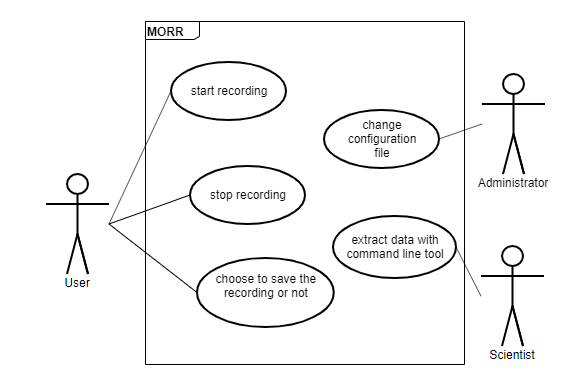
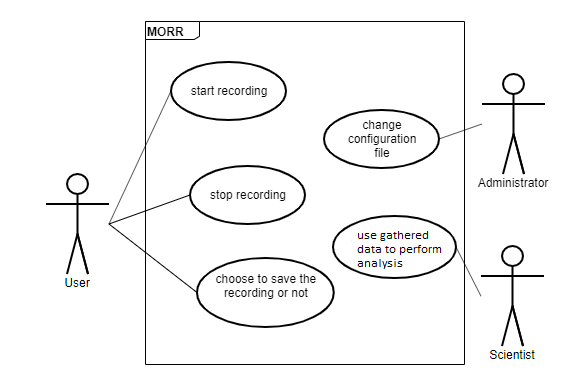
Remove data-extraction (CLI) and scenarios covering optional features from FSD

Changed region(s): [[0.5866, 0.5846, 0.7719, 0.7077]]

diff --git a/documents/fsd/chapter/scenarios.tex b/documents/fsd/chapter/scenarios.tex
@@ -29,49 +29,19 @@ The buttons and the yellow border in scenario 1 to 4 are specified in \ref{sec:s
     \item The application discards the recorded data and the yellow border disappears at the same time.
 \end{enumerate}
 
-\subsection{Scenario 3: The minimal recording duration is not reached}
-Notice: This scenario covers features declared optional.
-\begin{enumerate}
-    \item The application displays a button  at the bottom right corner of the screen.
-    \item \Gls{user} clicks the button to start recording.
-    \item The application starts to record and displays a yellow border on screen during the whole recording time to indicate that the \gls{session} is being recorded.
-    \item \Gls{user} is immediately interrupted by an Email after the start of recording and decides to stop recording and read the Email first.
-    \item \Gls{user} clicks the same button to stop recording.
-    \item The application displays a dialog indicating that the minimal recording duration \see[OC10] is not reached and thus the recorded data will be automatically discarded.
-    \item \Gls{user} clicks "confirm" button on the dialog and closes it.
-    \item The application discards the recorded data and the yellow border disappears at the same time.
-    \end{enumerate}
-    
-\subsection{Scenario 4: The maximal recording duration is reached}
-Notice: This scenario covers features declared optional.
-\begin{enumerate}
-    \item The application displays a button at the bottom right corner of the screen.
-    \item \Gls{user} clicks the button to start recording.
-    \item The application starts to record and displays a yellow border on screen during the whole recording time to indicate that the \gls{session} is being recorded.
-    \item \Gls{user} researches in different databases during recording but leaves their \gls{device} without terminating the recording.
-    \item The application displays a dialog, warning that the maximal recording duration of the \gls{session} \see[OC10] is almost reached.
-    \item The maximal recording duration of the \gls{session} \see[OC10] is reached. The application displays a dialog to ask the \gls{user}, if the recording data should be saved or not.
-    \item \Gls{user} is back and clicks "save" to save the recorded data.
-    \item The application saves the recorded data and the yellow frame disappears at the same time.
-\end{enumerate}
+\setcounter{subsection}{3} %%removed section 9.1.3
+\setcounter{subsection}{4} %%removed section 9.1.4
 
-\section{Scientist related scenarios}
-\subsection{Scenario 5: Scientist extracts data}
-\begin{enumerate}
-    \item \Gls{scientist} starts the command line tool (see \ref{sec:sm_extraction}) provided by the application.
-    \item \Gls{scientist} types in commands including the path of the data and an output directory to extract the data from that path to the output directory.
-    \item \Gls{scientist} can now use the extracted data in the output directory.
-\end{enumerate}
-
+\setcounter{section}{2} %% removed section 9.2
 
 \section{Administrator related scenarios}
 \subsection{Scenario 6: Administrator changes configuration}
 \begin{enumerate}
     \item The \gls{admin} opens the configuration file provided by the application.
-    \item The \gls{admin} changes the maximal recording duration \see[OC10] by editing the configuration file and saving it.
+    \item The \gls{admin} changes the enabled modules by editing the configuration file and saving it.
     \item The \gls{admin} distributes the changed configuration file to a \gls{user}.
     \item The \gls{user}'s application receives the changed configuration file .
-    \item The maximal recording duration \see[OC10] of the application is changed according to the received configuration file.
+    \item The enabled modules of the application is changed according to the received configuration file.
 \end{enumerate}
 
 \section{Use cases}

diff --git a/documents/fsd/chapter/func.tex b/documents/fsd/chapter/func.tex
@@ -70,7 +70,7 @@ The core application has to cover the following responsibilities:
     \fspec[300]{Recording indicator}{\Gls{user}}{\applaunched{} \sessioninactive{} \configvalid}{The \gls{user} clicks on the button labeled "Start Recording". The user-interface-managing component will start displaying a yellow border along the screen edges.}{A yellow border is being drawn along the screen edges as long as the recording is active.}
     \fspec{Error dialog}{\Gls{user}}{\configinvalid}{The \gls{user} starts the application. The configuration-managing component will detect syntactic errors in the configuration file and the user-interface-managing component will display an error-message.}{An error dialog is displayed, informing that the current configuration is invalid. When the \gls{user} clicks the button labeled "OK" displayed in this dialog, the application will terminate.}
     \fspec{Save dialog}{\Gls{user}}{\sessionactive}{The \gls{user} stops the recording by pressing the button labeled "Stop recording" or the button labeled "Quit". The user-interface-managing component opens a new save dialog.}{A dialog window is displayed to the \gls{user}, providing the options "Save recording" and "Discard recording".}
-    \fspec{Event-Data extraction}{\Gls{scientist}}{\sessionsavail}{A \gls{scientist} starts the supplied command-line-tool and supplies the paths of one or multiple recordings as well as an output path as parameters. The tool will start extracting the stored event-data from the recording.}{The event-data has been extracted from the specified recordings and stored in JSON-format (JavaScript Object Notation) at the location specified as output path. The recordings specified as input files have not been altered.}
+    \addtocounter{counterFS}{10} %% removed FS330
     \fspec{Tray-Icon}{\Gls{user}}{\configvalid}{The \gls{user} starts the application. The user-interface-managing component adds a new icon to the tray, indicating that the software has been launched successfully.}{An additional icon is displayed in the system tray.}
     \fspec{Tray-Menu}{\Gls{user}}{\applaunched}{The \gls{user} clicks on the tray-icon. The user-interface-managing component displays a menu providing the following options:
     \begin{itemize}

diff --git a/documents/fsd/chapter/versionhistory.tex b/documents/fsd/chapter/versionhistory.tex
@@ -13,7 +13,7 @@
 && Switched metadata format from CSV to JSON in:\\
 && - FS330, TC300, section 10.3.1 \\
 && Removed context management requirement:\\
-&& - removed FS270, D200, TC250 and section 6.2\\
+&& - Removed FS270, D200, TC250 and section 6.2\\
 && Removed OC40 (website specific filtering)\\
 && Rephrased data descriptions in section 6.3.5\\
 \hline
@@ -21,5 +21,11 @@
 && - Removed inapplicable TC20, TC30\\
 && - Removed TC240, TC300\\
 && - Adjusted TC430, TC500\\
+&& Removed or updated all content that includes data-extraction with CLI\\
+&& - Removed FS330, section 9.2, subsection 10.3.1\\
+&& - Updated section 9.4\\
+&& Removed all scenarios covering optional features\\
+&& - Removed section 9.1.3, 9.1.4\\
+&& - Updated section 9.3\\
 \end{tabular}
 \end{table}

diff --git a/documents/fsd/chapter/sysmodels.tex b/documents/fsd/chapter/sysmodels.tex
@@ -79,6 +79,4 @@ The \gls{user}-interface is intentionally minimal as the \glspl{user} should not
   \label{fig:sm_ui_saving}
 \end{figure}
 
-\subsection{Data extraction}
-\label{sec:sm_extraction}
-The \glspl{scientist} will be able to extract \gls{event}-information from the video container by utilizing an API (application programming interface) which will be supplied together with the application. Additionally, the application will be bundled with a commandline-tool which allows for extraction of the \gls{event}-data into the common JSON-format (JavaScript Object Notation). See also \specref{FS330}.
+\setcounter{subsection}{1}%% removed subsection 10.3.1
